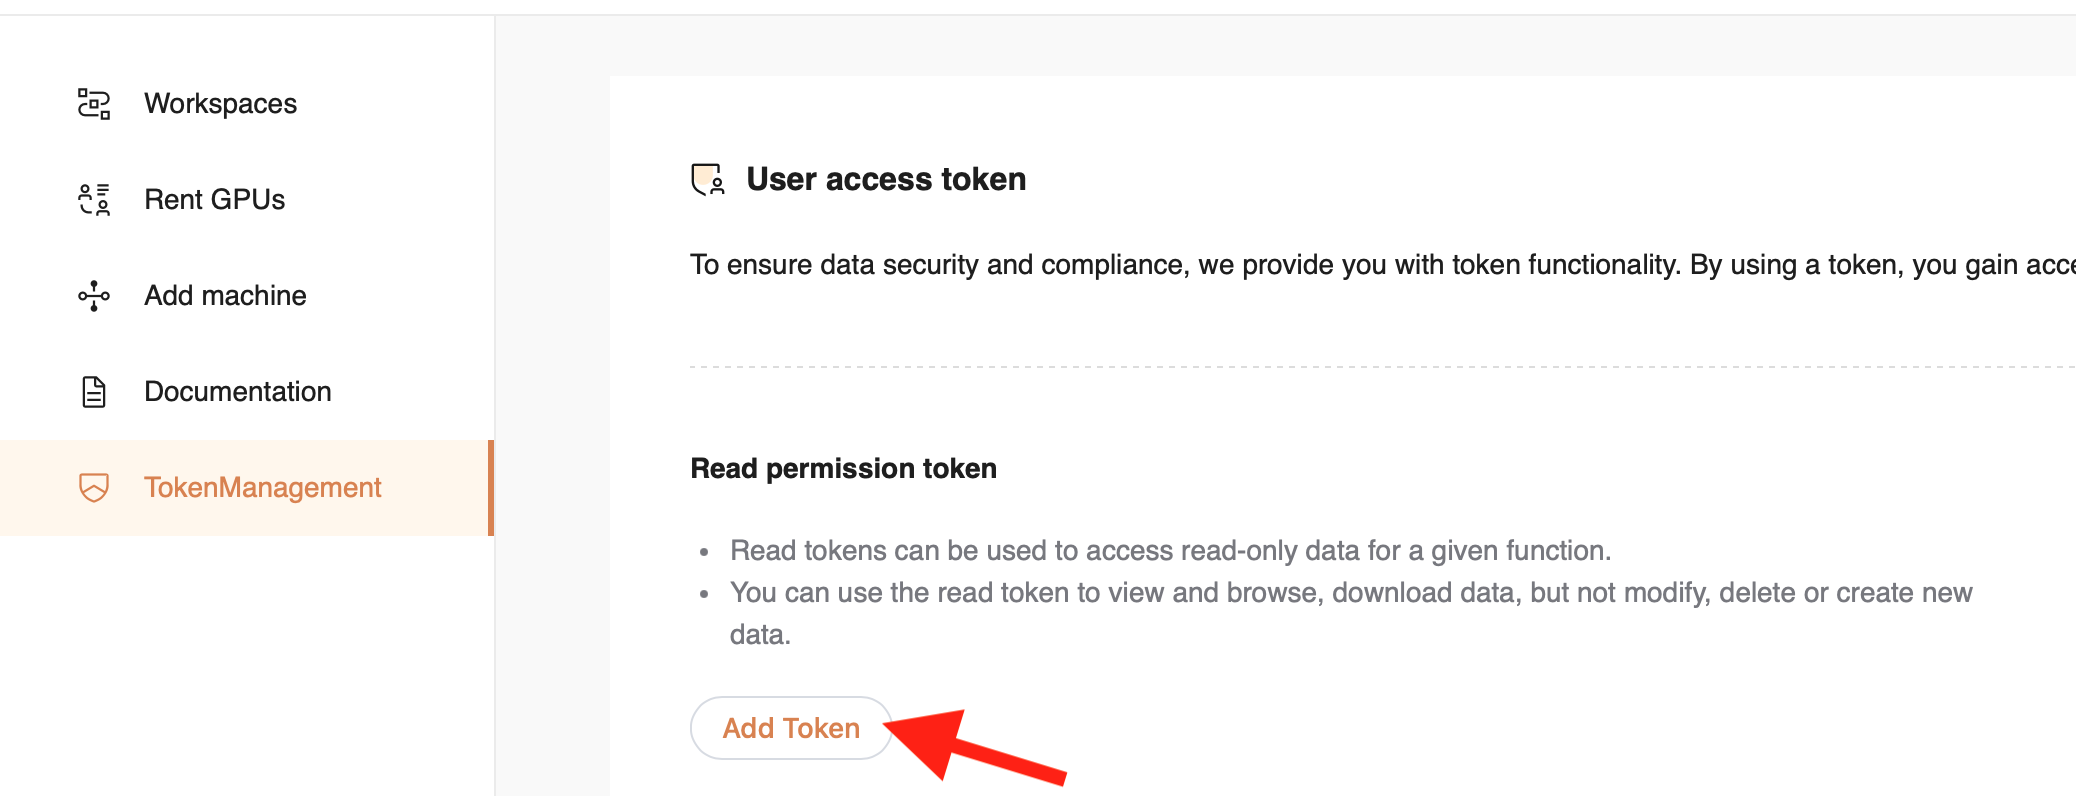
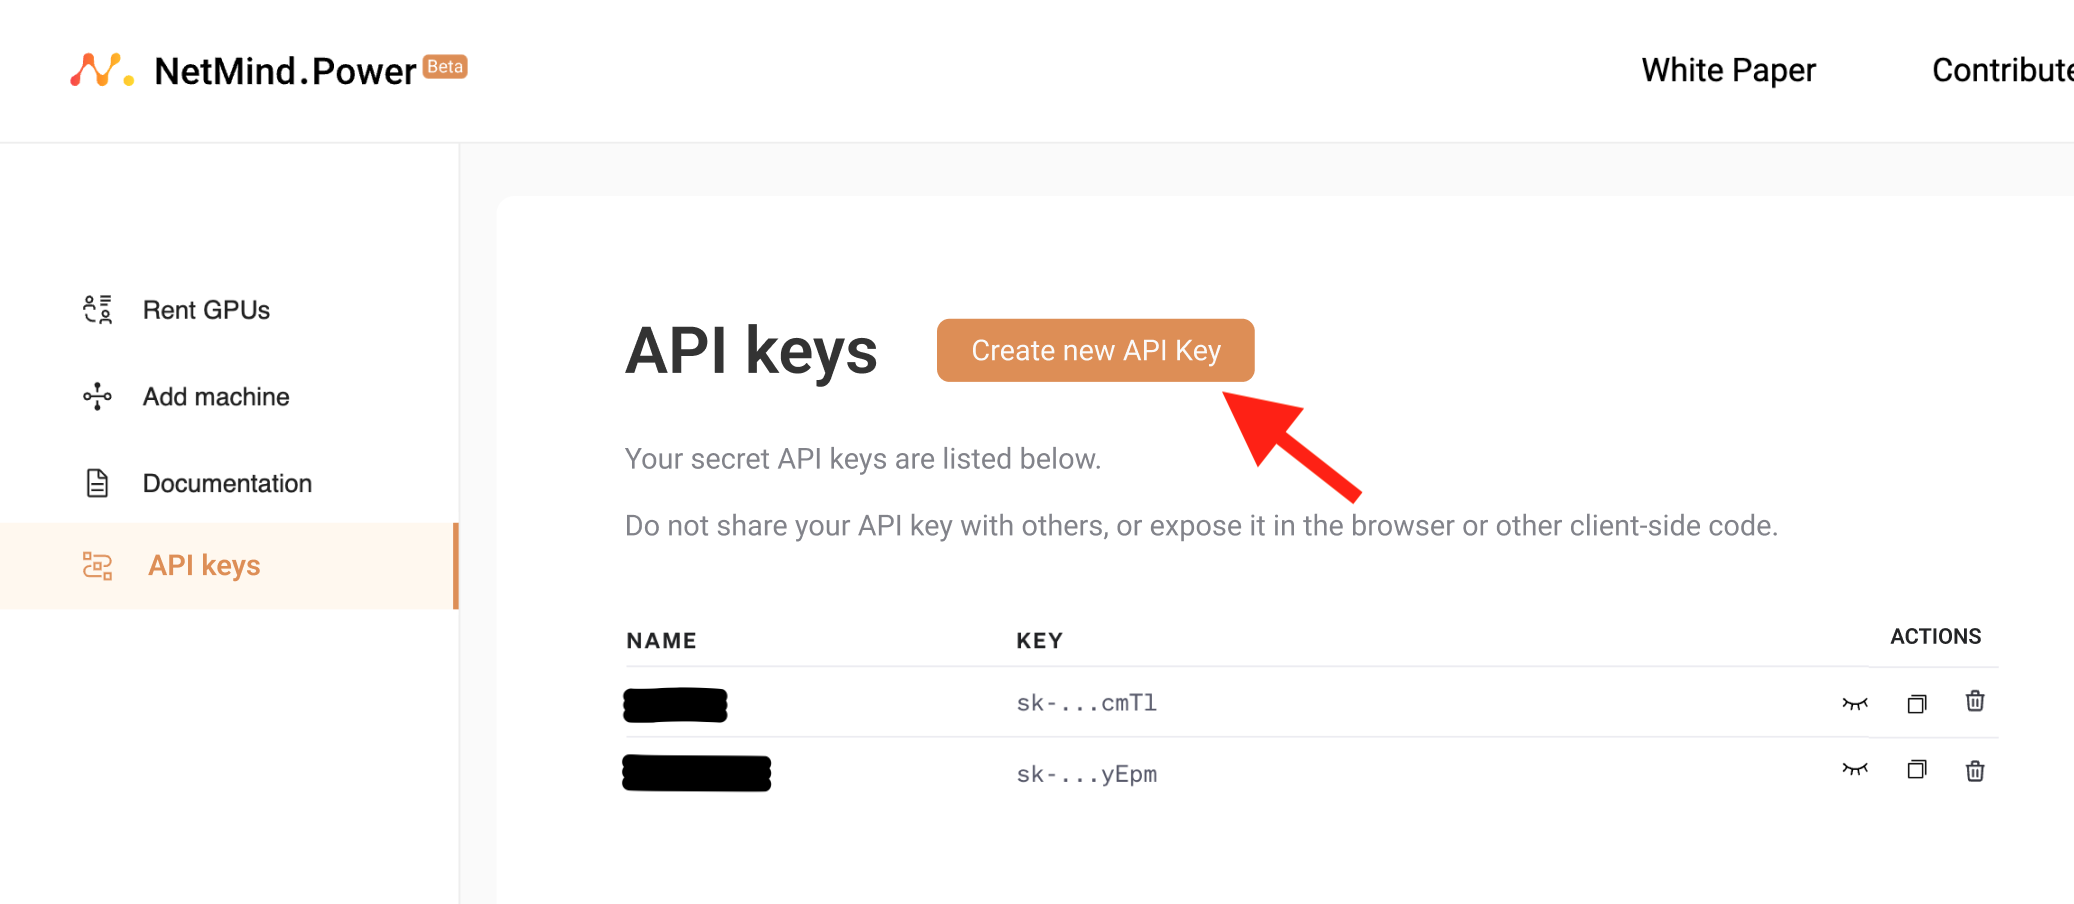
update doc to new design

diff --git a/README.md b/README.md
@@ -338,7 +338,7 @@ If you choose to upload your own data locally, you should follow the instruction
 
 After you have trained your model using our Power Platform, if you wish to do inference, you can download your checkpoints on Google Colab, your local machine or any machine with an internet connection. In order to do that please follow the steps below.
 1) On your Workspace, copy the ID of the training job you want to download the checkpoints for. You can do it by clicking on the squared icon below. An example ID would be `2356f5c2-7f25-436f-a4b2-759e9e12a01b`. <p align="center"><img src="images/copy_job_id.png" alt="console" style="width:500px;"/></p>
-2) On your Console, use the left panel to navigate to Token Management and click "Add Token" under "Read permission token" as shown in the picture below. On the field "Way to use" assign a unique name to your token and click Confirm when done. An API key will then be generated, for example `INIYBEXPK68U1CLH`. <p align="center"><img src="images/add_token.png" alt="console" style="width:500px;"/></p>
+2) On your Console, use the left panel to navigate to the "API keys" tab and then click on "Create new API Key". On the field "Name" assign a unique name to your key and click "Create secret key" when done. An API key will then be generated, for example `INIYBEXPK68U1CLH`. <p align="center"><img src="images/add_token.png" alt="console" style="width:500px;"/></p>
 3) Open the environment you want to download the checkpoints to. This could be Google Colab, your local machine or any machine with an internet connection. Run the script below and replace your job ID and API key accordingly. Note that this script will install NetmindMixins in your python environment.
 ```python
 import os
